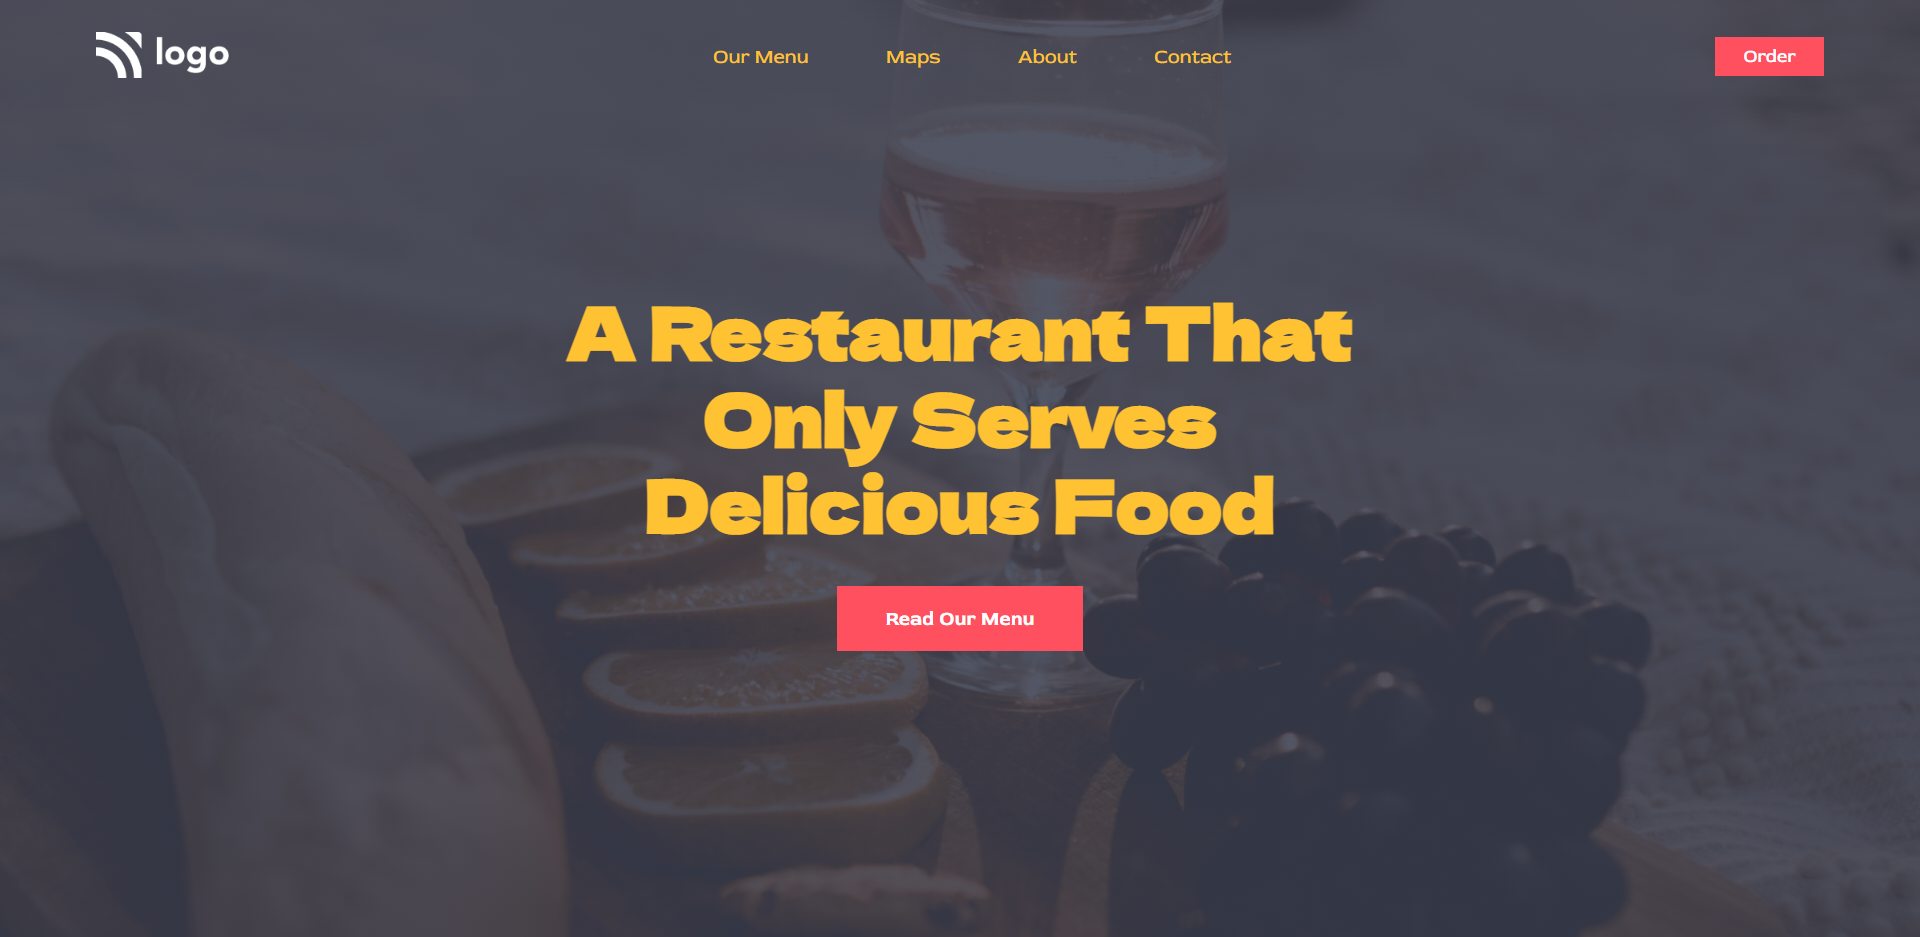
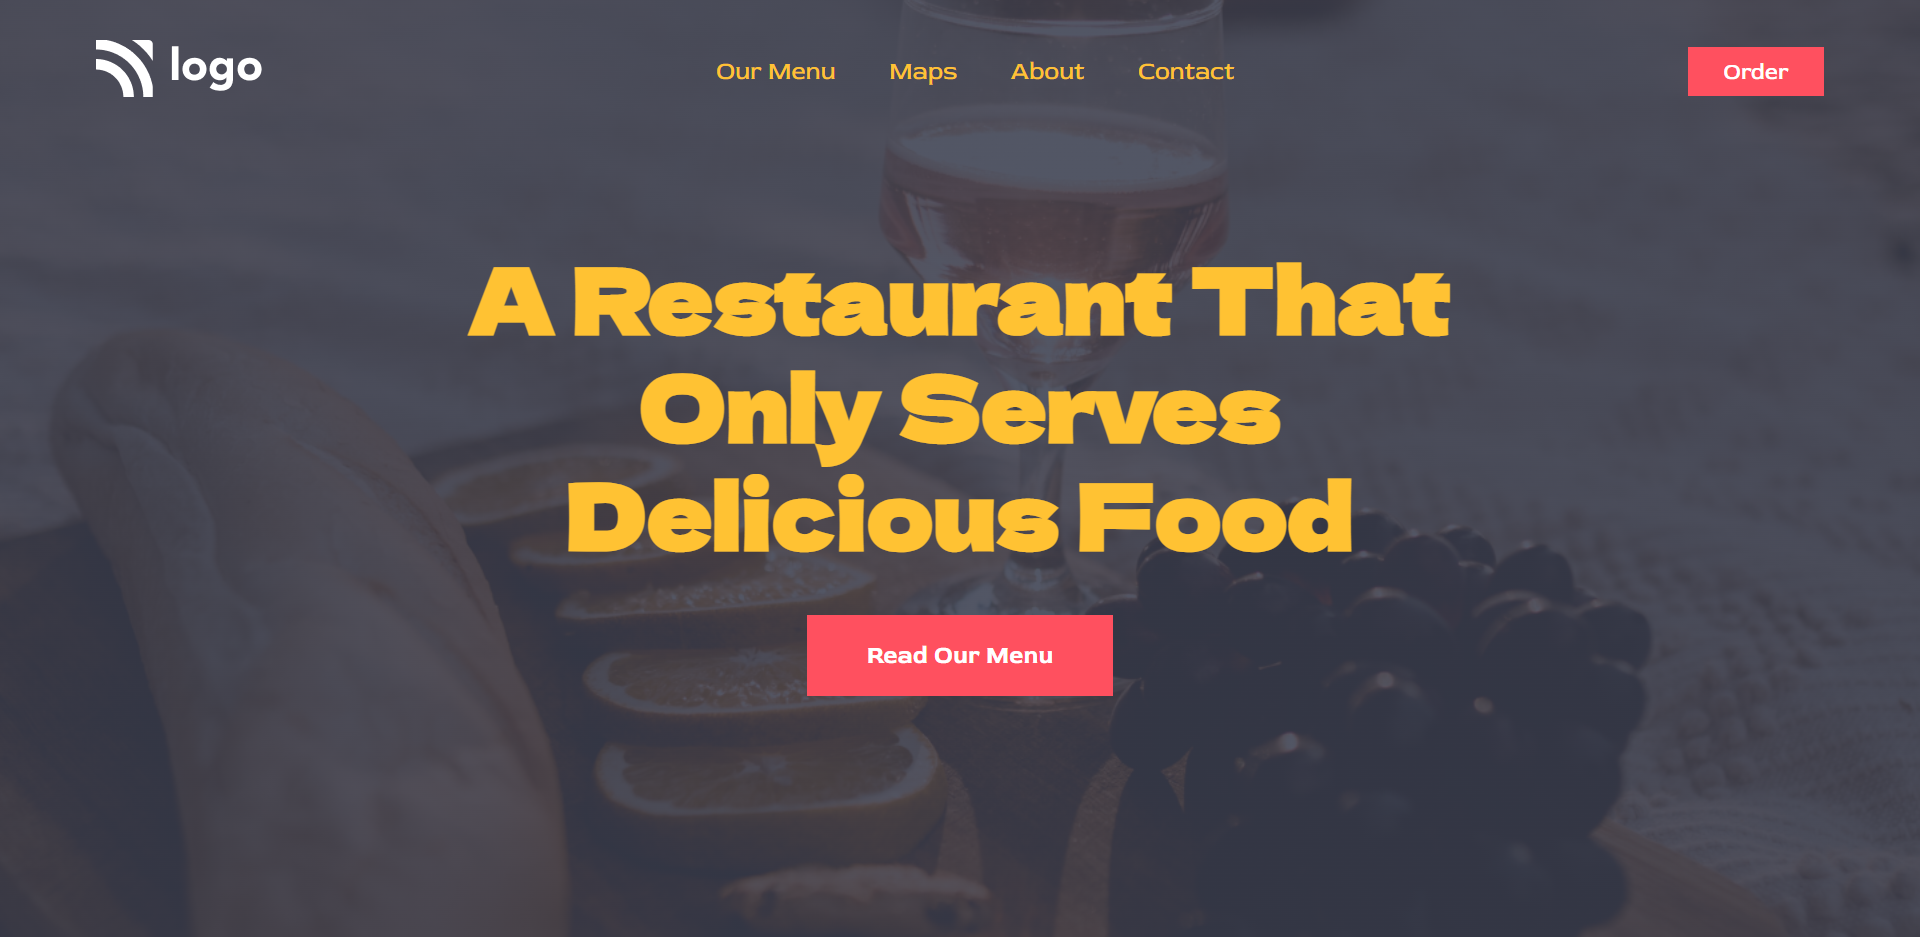
Fix some styling and update live link in README file

diff --git a/style.css b/style.css
@@ -12,6 +12,17 @@ ol,ul  {
   list-style-type: none;
 }
 
+.container {
+  background: linear-gradient(rgba(57, 61, 78, 0.85), rgba(57, 61, 78, 0.85)), url(assets/pexels-maxyne-barcel-10402282\ 1.png);
+  background-repeat: no-repeat;
+  background-size: cover;
+  background-position: center;
+}
+
+/* ------------------------------ */
+/* ---------- Button ------------ */
+/* ------------------------------ */
+
 .button-small {
   padding: 10px 35px;
   border: none;
@@ -24,7 +35,7 @@ ol,ul  {
 }
 
 .button-large {
-  padding: 25px 60px;
+  padding: 20px 50px;
   border: none;
   background-color: #FF505F;
   color: #fff;
@@ -32,13 +43,6 @@ ol,ul  {
   font-weight: 700;
   font-family: "Red Rose", sans-serif;
   cursor: pointer;
-}
-
-.container {
-  background: linear-gradient(rgba(57, 61, 78, 0.85), rgba(57, 61, 78, 0.85)), url(assets/pexels-maxyne-barcel-10402282\ 1.png);
-  background-repeat: no-repeat;
-  background-size: cover;
-  background-position: center;
 }
 
 /* ------------------------------ */

diff --git a/README.md b/README.md
@@ -9,7 +9,7 @@ I'm `Adnan Sarkar`. This is the second assignment in my [Full Stack Javascript](
 - CSS
 
 ## 🖥 Preview
-[Live Preview]()
+[Live Preview](https://food-restaurant-homepage-project-2.netlify.app/)
 
 ![](Food%20Restaurant%20Home%20Page.png)
 
